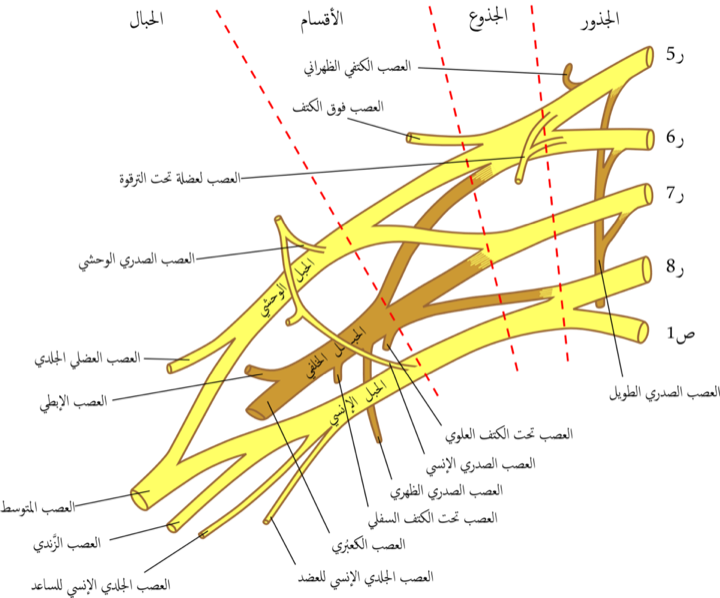
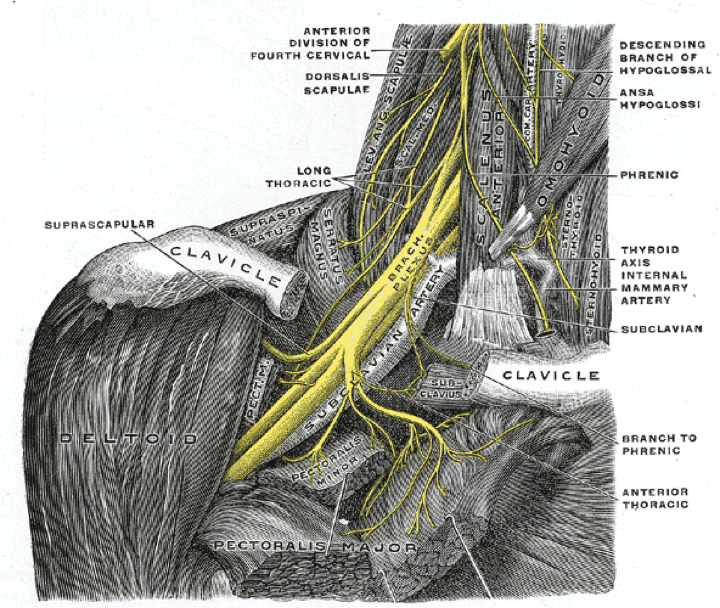
Images: remplacement des 4 mauvaises (Gray808 plexus, Blausen genou, OpenStax jambe, Nucleus coiffe) + attribution corrigee

diff --git a/index.html b/index.html
@@ -687,7 +687,7 @@ const COURSES=[
     <text x="150" y="100" class="lbl" fill="#179b8e">cartilage hyalin</text>
     <text x="150" y="130" class="lbl" fill="#c9930f">capsule + membrane synoviale</text>
     <text x="150" y="160" class="lblsm">(la cavité contient le liquide synovial)</text>
-  </svg><div class="svgcap">Schéma — coupe d'une articulation synoviale</div></div><div class="imgbox"><img src="img/synovial_joint.png" alt="Coupe d'une articulation synoviale" loading="lazy"><div class="cred">Coupe d'une articulation synoviale · © Semenistaja, S.; Skuja, S.; Kadisa, A.; Groma, V., CC BY 4.0 — Wikimedia Commons</div></div>
+  </svg><div class="svgcap">Schéma — coupe d'une articulation synoviale</div></div><div class="imgbox"><img src="img/synovial_joint.png" alt="Coupe d'une articulation synoviale" loading="lazy"><div class="cred">Coupe d'une articulation synoviale · © Semenistaja, S., CC BY 4.0 — Wikimedia Commons</div></div>
   <div class="callout def"><span class="ct">📘 Composants</span>Cartilage hyalin · capsule · membrane synoviale (sécrète le liquide) · cavité articulaire · ligaments · parfois ménisques / labrum / bourses séreuses.</div>
   <div class="tablewrap"><table><tr><th>Type synovial</th><th>Ddl</th><th>Exemple</th></tr>
   <tr><td>Sphéroïde</td><td>3</td><td>épaule, hanche</td></tr>
@@ -732,7 +732,7 @@ const COURSES=[
 ]},
 {icon:"🦾",title:"Membre supérieur",sections:[
   {h:"Ceinture & épaule — la coiffe",html:`<p>L'épaule sacrifie la stabilité pour la mobilité. Quatre petits muscles, la <b>coiffe des rotateurs</b>, recentrent en permanence la tête humérale dans la glène.</p>
-  <div class="callout mnemo"><span class="ct">🧠 Mémo coiffe = SITS</span><b>S</b>upra-épineux (initie l'abduction) · <b>I</b>nfra-épineux (rotation externe) · <b>T</b>eres minor = petit rond (rotation externe) · <b>S</b>ubscapulaire (rotation interne).</div><div class="imgbox"><img src="img/rotator_cuff.jpg" alt="Les muscles de la coiffe des rotateurs" loading="lazy"><div class="cred">Les muscles de la coiffe des rotateurs · © Frank Liebig, CC BY-SA 4.0 — Wikimedia Commons</div></div>
+  <div class="callout mnemo"><span class="ct">🧠 Mémo coiffe = SITS</span><b>S</b>upra-épineux (initie l'abduction) · <b>I</b>nfra-épineux (rotation externe) · <b>T</b>eres minor = petit rond (rotation externe) · <b>S</b>ubscapulaire (rotation interne).</div><div class="imgbox"><img src="img/rotator_cuff.jpg" alt="Les muscles de la coiffe des rotateurs" loading="lazy"><div class="cred">Les muscles de la coiffe des rotateurs · © Nucleus Communications, Attribution — Wikimedia Commons</div></div>
   <div class="tablewrap"><table><tr><th>Muscle</th><th>Innervation</th><th>Action</th></tr>
   <tr><td>Deltoïde</td><td>axillaire</td><td>abduction / flexion+RI / extension+RE</td></tr>
   <tr><td>Grand dorsal</td><td>thoraco-dorsal</td><td>adduction + RI + extension (tirer)</td></tr>
@@ -757,7 +757,7 @@ const COURSES=[
       <text x="182" y="110" fill="#e0445a">Radial</text>
       <text x="182" y="146" fill="#c9930f">Médian</text>
       <text x="182" y="182" fill="#2f8fd6">Ulnaire</text></g>
-  </svg><div class="svgcap">Schéma — racines C5-T1 → 5 nerfs terminaux</div></div><div class="imgbox"><img src="img/brachial_plexus.png" alt="Le plexus brachial" loading="lazy"><div class="cred">Le plexus brachial · © Wikimedia Commons, Public domain — Wikimedia Commons</div></div>
+  </svg><div class="svgcap">Schéma — racines C5-T1 → 5 nerfs terminaux</div></div><div class="imgbox"><img src="img/brachial_plexus.png" alt="Le plexus brachial" loading="lazy"><div class="cred">Le plexus brachial · © Henry Vandyke Carter, Public domain — Wikimedia Commons</div></div>
   <div class="tablewrap"><table><tr><th>Nerf</th><th>Muscles</th><th>Lésion typique</th></tr>
   <tr><td>Axillaire</td><td>deltoïde, petit rond</td><td>—</td></tr>
   <tr><td>Radial</td><td>triceps + extenseurs</td><td>main tombante</td></tr>
@@ -777,7 +777,7 @@ const COURSES=[
   <tr><td>Grand fessier</td><td>glutéal inférieur</td><td>extension + RE</td></tr>
   <tr><td>Moyen fessier</td><td>glutéal supérieur</td><td>abduction + stabilité du bassin</td></tr>
   <tr><td>Adducteurs</td><td>obturateur</td><td>adduction</td></tr></table></div>
-  <div class="callout clin"><span class="ct">🩺 Clinique kiné</span>Un moyen fessier déficient = <b>boiterie de Trendelenburg</b> : le bassin bascule du côté opposé à l'appui. Test postural incontournable.</div><div class="imgbox"><img src="img/lower_limb_muscles.jpg" alt="Les muscles du membre inférieur" loading="lazy"><div class="cred">Les muscles du membre inférieur · © Tradimus, CC BY-SA 3.0 — Wikimedia Commons</div></div>`},
+  <div class="callout clin"><span class="ct">🩺 Clinique kiné</span>Un moyen fessier déficient = <b>boiterie de Trendelenburg</b> : le bassin bascule du côté opposé à l'appui. Test postural incontournable.</div><div class="imgbox"><img src="img/lower_limb_muscles.jpg" alt="Les muscles du membre inférieur" loading="lazy"><div class="cred">Les muscles du membre inférieur · © OpenStax, CC BY 4.0 — Wikimedia Commons</div></div>`},
   {h:"Cuisse & jambe",html:`<div class="tablewrap"><table><tr><th>Groupe</th><th>Nerf</th><th>Action</th></tr>
   <tr><td>Quadriceps</td><td>fémoral (L2-L4)</td><td>extension du genou</td></tr>
   <tr><td>Ischio-jambiers</td><td>sciatique (L5-S2)</td><td>flexion genou + extension hanche</td></tr>
@@ -785,7 +785,7 @@ const COURSES=[
   <tr><td>Tibial antérieur</td><td>fibulaire profond</td><td>dorsiflexion + inversion</td></tr>
   <tr><td>Fibulaires</td><td>fibulaire superficiel</td><td>éversion</td></tr></table></div>
   <div class="callout mnemo"><span class="ct">🧠 Mémo</span>Patte d'oie = <b>Sa</b>rtorius + <b>Gr</b>acile + <b>Se</b>mi-tendineux. Jambe : <b>tibial derrière</b>, <b>fibulaire profond devant</b>, <b>fibulaire superficiel dehors</b>.</div>
-  <div class="callout clin"><span class="ct">🩺 Clinique kiné</span>Lésion du <b>nerf fibulaire commun</b> (au col de la fibula) → <b>pied tombant</b> (steppage) : le patient ne relève plus le pied.</div><div class="imgbox"><img src="img/knee_joint.jpg" alt="L'articulation du genou" loading="lazy"><div class="cred">L'articulation du genou · © Original: Mysid Derivative: User:Mysid, Public domain — Wikimedia Commons</div></div>`},
+  <div class="callout clin"><span class="ct">🩺 Clinique kiné</span>Lésion du <b>nerf fibulaire commun</b> (au col de la fibula) → <b>pied tombant</b> (steppage) : le patient ne relève plus le pied.</div><div class="imgbox"><img src="img/knee_joint.png" alt="L'articulation du genou" loading="lazy"><div class="cred">L'articulation du genou · © BruceBlaus, CC BY 3.0 — Wikimedia Commons</div></div>`},
   {h:"💡 L'essentiel",html:`<div class="essbox"><ul>
   <li>Ilio-psoas = fléchisseur de hanche ; grand fessier = extension ; <b>moyen fessier = stabilité du bassin</b>.</li>
   <li>Quadriceps (fémoral) ↔ ischio-jambiers (sciatique) : couple extension/flexion du genou.</li>
@@ -917,7 +917,7 @@ const COURSES=[
   <li>Fuseau = étirement ; Golgi = tension.</li>
   </ul></div>`}
 ]},
-{icon:"📷",title:"Sources & crédits",sections:[{h:"Images",html:`<p>Toutes les illustrations de ce site sont <b>libres de droits</b> : domaine public (Gray Anatomy 1918) ou licence <b>Creative Commons</b>, via Wikimedia Commons. Merci à leurs auteurs.</p><ul style="font-size:13px"><li><b>Wikimedia Commons</b> — © LadyofHats, Public domain. <a href="https://commons.wikimedia.org/wiki/File:Human_skeleton_front_numbered.png" target="_blank" rel="noopener">source</a></li><li><b>Wikimedia Commons</b> — © Tradimus, CC BY-SA 3.0. <a href="https://commons.wikimedia.org/wiki/File:3D_model_lower_limb_muscle_anterior.jpg" target="_blank" rel="noopener">source</a></li><li><b>Wikimedia Commons</b> — © Dr Johannes Sobotta, CC BY-SA 3.0. <a href="https://commons.wikimedia.org/wiki/File:Vertebral_column,_lateral,_Sobo_1909.png" target="_blank" rel="noopener">source</a></li><li><b>Wikimedia Commons</b> — © Wikimedia Commons, CC BY-SA 3.0. <a href="https://commons.wikimedia.org/wiki/File:Skeletal_muscle_diagram.jpg" target="_blank" rel="noopener">source</a></li><li><b>Wikimedia Commons</b> — © Frank Liebig, CC BY-SA 4.0. <a href="https://commons.wikimedia.org/wiki/File:Infraspinatusatrophie.jpg" target="_blank" rel="noopener">source</a></li><li><b>Wikimedia Commons</b> — © Wikimedia Commons, Public domain. <a href="https://commons.wikimedia.org/wiki/File:Brachial_plexus_2-2.png" target="_blank" rel="noopener">source</a></li><li><b>Wikimedia Commons</b> — © Original: Mysid Derivative: User:Mysid, Public domain. <a href="https://commons.wikimedia.org/wiki/File:Knee_diagram-ar.jpg" target="_blank" rel="noopener">source</a></li><li><b>Wikimedia Commons</b> — © Doctor Jana, CC BY 4.0. <a href="https://commons.wikimedia.org/wiki/File:Neuro_Muscular_Junction.png" target="_blank" rel="noopener">source</a></li><li><b>Wikimedia Commons</b> — © Wikimedia Commons, CC BY 4.0. <a href="https://commons.wikimedia.org/wiki/File:Anatomy_of_the_brain;_lobes_and_cerebellum_Wellcome_V0009499.jpg" target="_blank" rel="noopener">source</a></li><li><b>Wikimedia Commons</b> — © Semenistaja, S.; Skuja, S.; Kadisa, A.; Groma, V., CC BY 4.0. <a href="https://commons.wikimedia.org/wiki/File:Schematic_overview_of_a_synovial_joint_structure.png" target="_blank" rel="noopener">source</a></li></ul>`},{h:"Avertissement",html:`<div class="callout clin"><span class="ct">🚨 Important</span>Contenu pédagogique original, destiné à la révision. Il ne remplace ni un cours officiel, ni un atlas, ni un avis médical. Recoupe toujours avec tes sources de référence.</div>`}]}
+{icon:"📷",title:"Sources & crédits",sections:[{h:"Images",html:`<p>Toutes les illustrations de ce site sont <b>libres de droits</b> : domaine public (Gray Anatomy 1918) ou licence <b>Creative Commons</b>, via Wikimedia Commons. Merci à leurs auteurs.</p><ul style="font-size:13px"><li><b>Wikimedia Commons</b> — © LadyofHats, Public domain. <a href="https://commons.wikimedia.org/wiki/File:Human_skeleton_front_numbered.png" target="_blank" rel="noopener">source</a></li><li><b>Wikimedia Commons</b> — © Dr Johannes Sobotta, CC BY-SA 3.0. <a href="https://commons.wikimedia.org/wiki/File:Vertebral_column,_lateral,_Sobo_1909.png" target="_blank" rel="noopener">source</a></li><li><b>Wikimedia Commons</b> — © Wikimedia Commons, CC BY-SA 3.0. <a href="https://commons.wikimedia.org/wiki/File:Skeletal_muscle_diagram.jpg" target="_blank" rel="noopener">source</a></li><li><b>Wikimedia Commons</b> — © Doctor Jana, CC BY 4.0. <a href="https://commons.wikimedia.org/wiki/File:Neuro_Muscular_Junction.png" target="_blank" rel="noopener">source</a></li><li><b>Wikimedia Commons</b> — © Wikimedia Commons, CC BY 4.0. <a href="https://commons.wikimedia.org/wiki/File:Anatomy_of_the_brain;_lobes_and_cerebellum_Wellcome_V0009499.jpg" target="_blank" rel="noopener">source</a></li><li><b>Wikimedia Commons</b> — © Semenistaja, S., CC BY 4.0. <a href="https://commons.wikimedia.org/wiki/File:Schematic_overview_of_a_synovial_joint_structure.png" target="_blank" rel="noopener">source</a></li><li><b>Wikimedia Commons</b> — © Henry Vandyke Carter, Public domain. <a href="https://commons.wikimedia.org/wiki/File:Gray808.png" target="_blank" rel="noopener">source</a></li><li><b>Wikimedia Commons</b> — © Nucleus Communications, Attribution. <a href="https://commons.wikimedia.org/wiki/File:Rotator_cuff_high.jpg" target="_blank" rel="noopener">source</a></li><li><b>Wikimedia Commons</b> — © BruceBlaus, CC BY 3.0. <a href="https://commons.wikimedia.org/wiki/File:Blausen_0596_KneeAnatomy_Front.png" target="_blank" rel="noopener">source</a></li><li><b>Wikimedia Commons</b> — © OpenStax, CC BY 4.0. <a href="https://commons.wikimedia.org/wiki/File:1123_Muscles_of_the_Leg_that_Move_the_Foot_and_Toes.jpg" target="_blank" rel="noopener">source</a></li></ul>`},{h:"Avertissement",html:`<div class="callout clin"><span class="ct">🚨 Important</span>Contenu pédagogique original, destiné à la révision. Il ne remplace ni un cours officiel, ni un atlas, ni un avis médical. Recoupe toujours avec tes sources de référence.</div>`}]}
 ];
 
 /* ===================== UTILITAIRES ===================== */